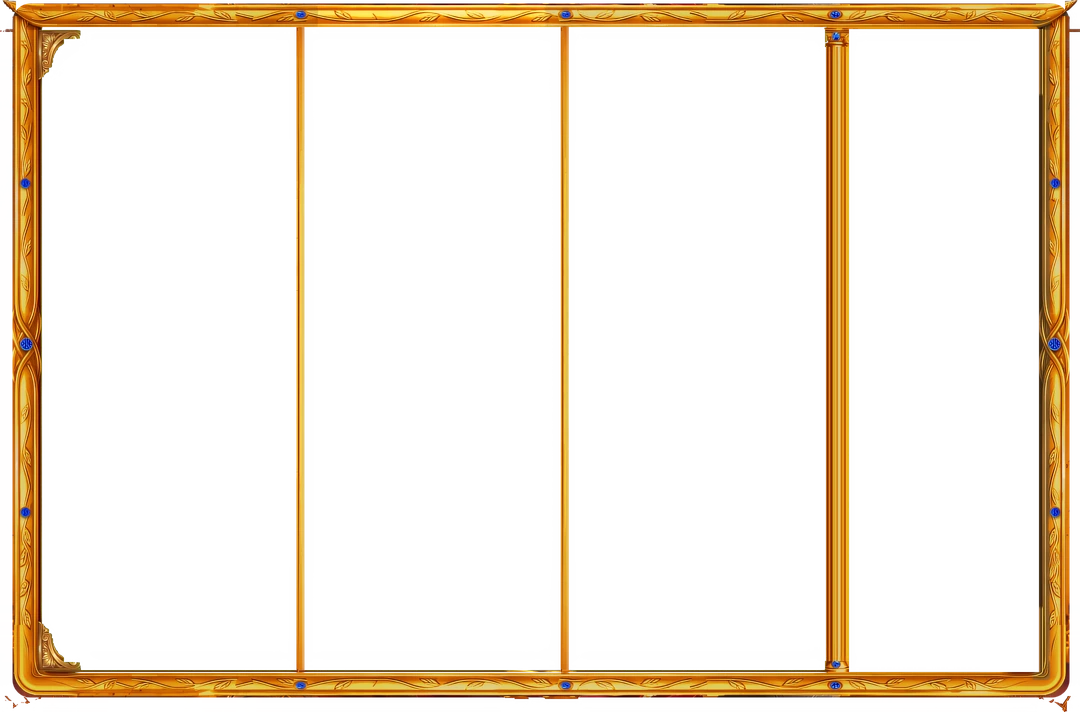
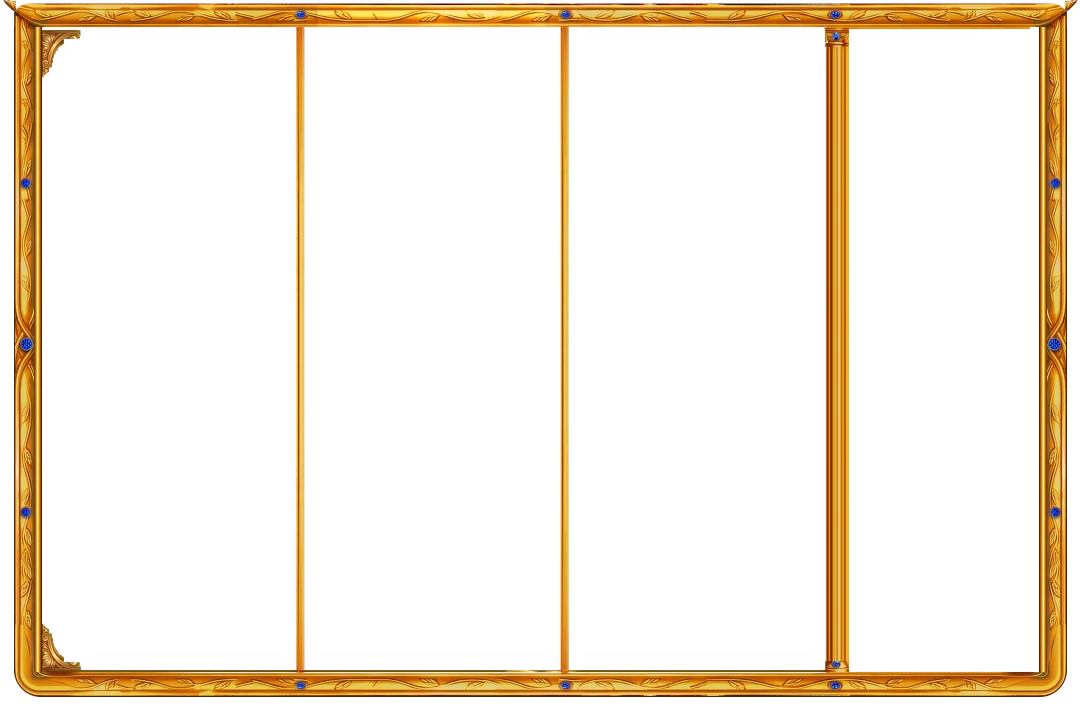
White version: painted gold frame cleaned and made symmetrical (left bar mirrors the right; clean inner bevel, straight outer edge, round bottom corners, stray specks removed); vector frame trial behind ?vframe

Changed region(s): [[0.0, 0.0, 0.1833, 0.9888], [0.9472, 0.0309, 1.0, 1.0], [0.5194, 0.9579, 0.55, 0.9888]]

diff --git a/white/index.html b/white/index.html
@@ -46,22 +46,22 @@
 <script src="lib/pixi-filters.js"></script>
 <script src="lib/gsap.min.js"></script>
 <script src="lib/CustomEase.min.js"></script>
-<script src="src/engine.js?b=11121757"></script>
-<script src="src/audio.js?b=11121757"></script>
-<script src="src/sfx.js?b=11121757"></script>
-<script src="src/fx.js?b=11121757"></script>
-<script src="src/vfx.js?b=11121757"></script>
-<script src="src/buy.js?b=11121757"></script>
-<script src="src/segvideo.js?b=11121757"></script>
-<script src="src/gx.js?b=11121757"></script>
-<script src="src/game.js?b=11121757"></script>
-<script src="src/gx_popup.js?b=11121757"></script>
-<script src="src/gx_feature.js?b=11121757"></script>
-<script src="src/gx_picker.js?b=11121757"></script>
-<script src="src/gx_symbols.js?b=11121757"></script>
-<script src="src/gx_intro.js?b=11121757"></script>
-<script src="src/gx_halo.js?b=11121757"></script>
-<script src="src/gx_rays.js?b=11121757"></script>
-<script src="src/gx_fire.js?b=11121757"></script>
+<script src="src/engine.js?b=11121923"></script>
+<script src="src/audio.js?b=11121923"></script>
+<script src="src/sfx.js?b=11121923"></script>
+<script src="src/fx.js?b=11121923"></script>
+<script src="src/vfx.js?b=11121923"></script>
+<script src="src/buy.js?b=11121923"></script>
+<script src="src/segvideo.js?b=11121923"></script>
+<script src="src/gx.js?b=11121923"></script>
+<script src="src/game.js?b=11121923"></script>
+<script src="src/gx_popup.js?b=11121923"></script>
+<script src="src/gx_feature.js?b=11121923"></script>
+<script src="src/gx_picker.js?b=11121923"></script>
+<script src="src/gx_symbols.js?b=11121923"></script>
+<script src="src/gx_intro.js?b=11121923"></script>
+<script src="src/gx_halo.js?b=11121923"></script>
+<script src="src/gx_rays.js?b=11121923"></script>
+<script src="src/gx_fire.js?b=11121923"></script>
 </body>
 </html>

diff --git a/white/src/game.js b/white/src/game.js
@@ -174,7 +174,8 @@
   const files = [];
   const add = (p) => files.push(artSrc(p));
   add("BG/bg_main"); add("Character/bull");
-  ["frame", "mult_tray", "panel_reels"].forEach((n) => add("Board/" + n));
+  const VFRAME = params.has("vframe");   // white trial: the vector-drawn gold frame
+  [VFRAME ? "frame_vec" : "frame", "mult_tray", "panel_reels"].forEach((n) => add("Board/" + n));
   for (const s of Engine.SYMBOLS) {
     add(`Symbols/${s}`); add(`Symbols/${s}_blur`); add(`Symbols/${s}_off`);
     if (HIGH.has(s)) ["_tile", "_tile_blur", "_tilebg"].forEach((k) => add(`Symbols/${s}${k}`));
@@ -415,7 +416,7 @@
   const board = new PIXI.Container();
   board.addChild(winBar, panel, tray, colBack, cellFxBack, frameL, reelsL, colFront, boardFx, plaqueL);
   boardL.addChild(board);
-  const frame = new PIXI.Sprite(T(GPASS ? "Board/frame_stone" : "Board/frame")); frame.position.set(0, 585);   // stone: no rails between the reels
+  const frame = new PIXI.Sprite(T(GPASS ? "Board/frame_stone" : VFRAME ? "Board/frame_vec" : "Board/frame")); frame.position.set(0, 585);   // stone: no rails between the reels
   frameL.addChild(frame);
   const frameTop = new PIXI.Sprite(new PIXI.Texture(frame.texture.baseTexture, new PIXI.Rectangle(frame.texture.frame.x, frame.texture.frame.y, frame.texture.frame.width, 28)));
   frameTop.position.set(0, 585); board.addChildAt(frameTop, board.getChildIndex(reelsL) + 1);   // white: the top edge stays over the symbols
